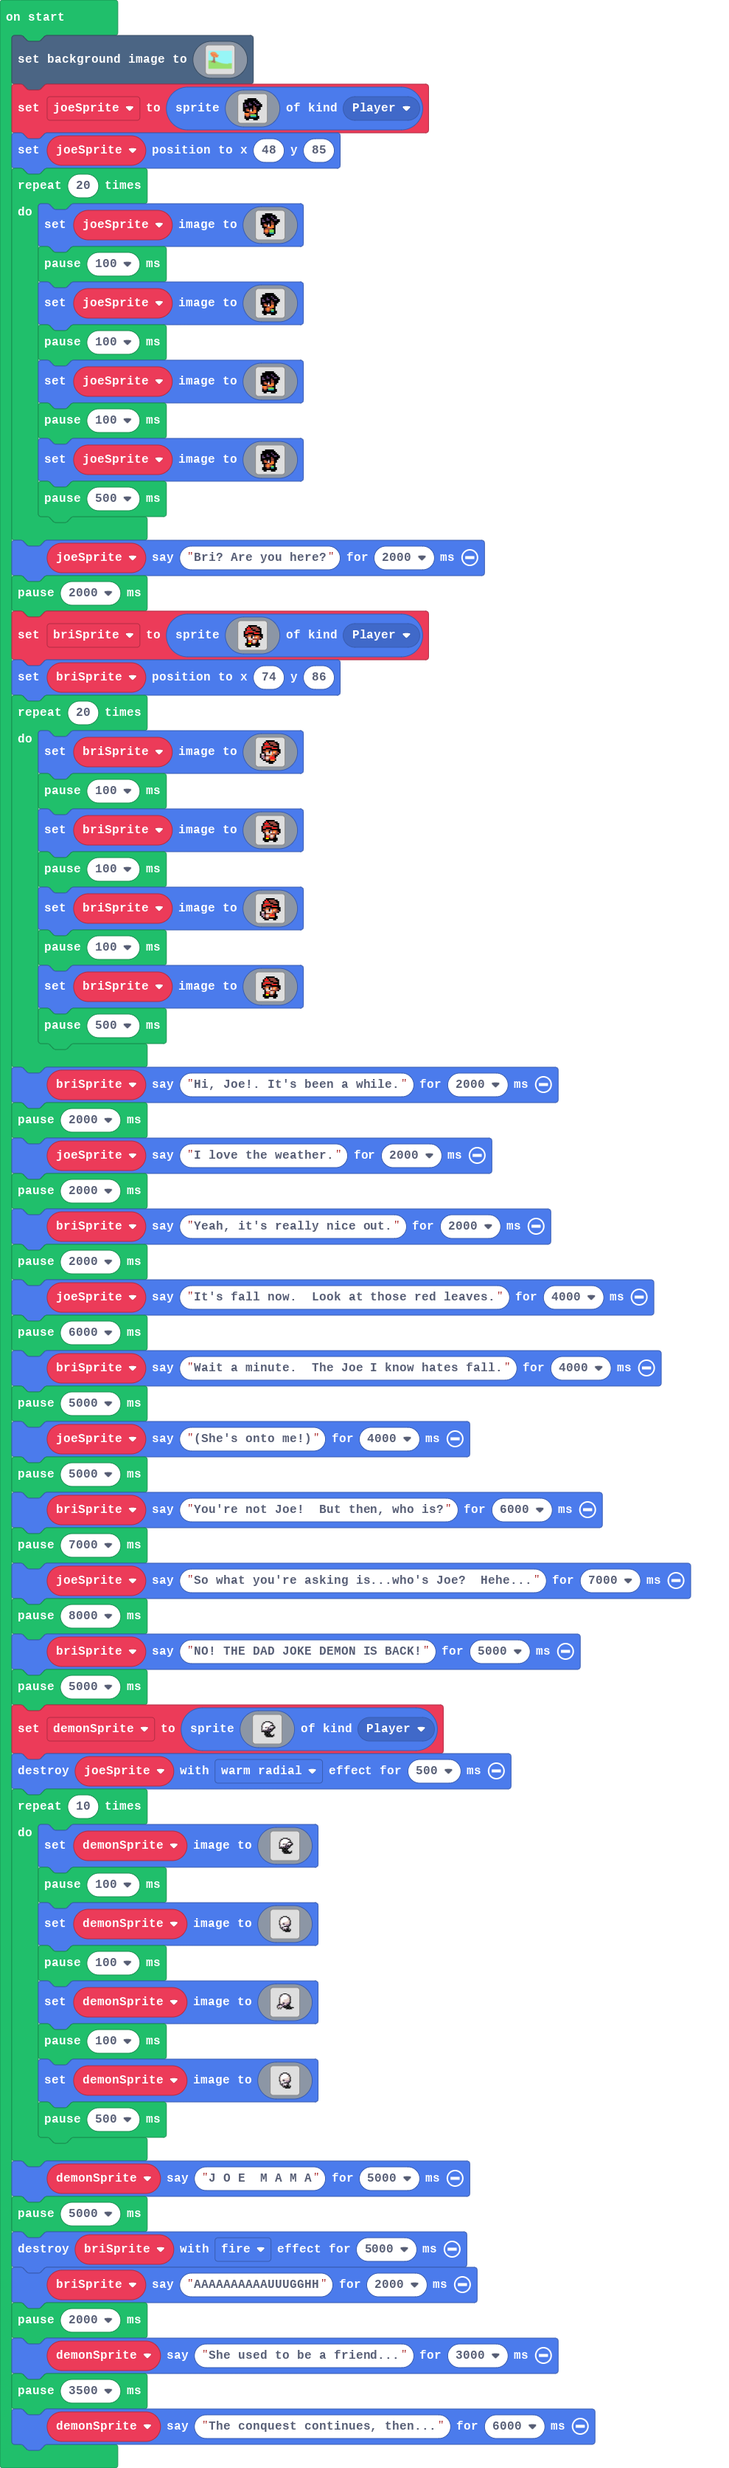
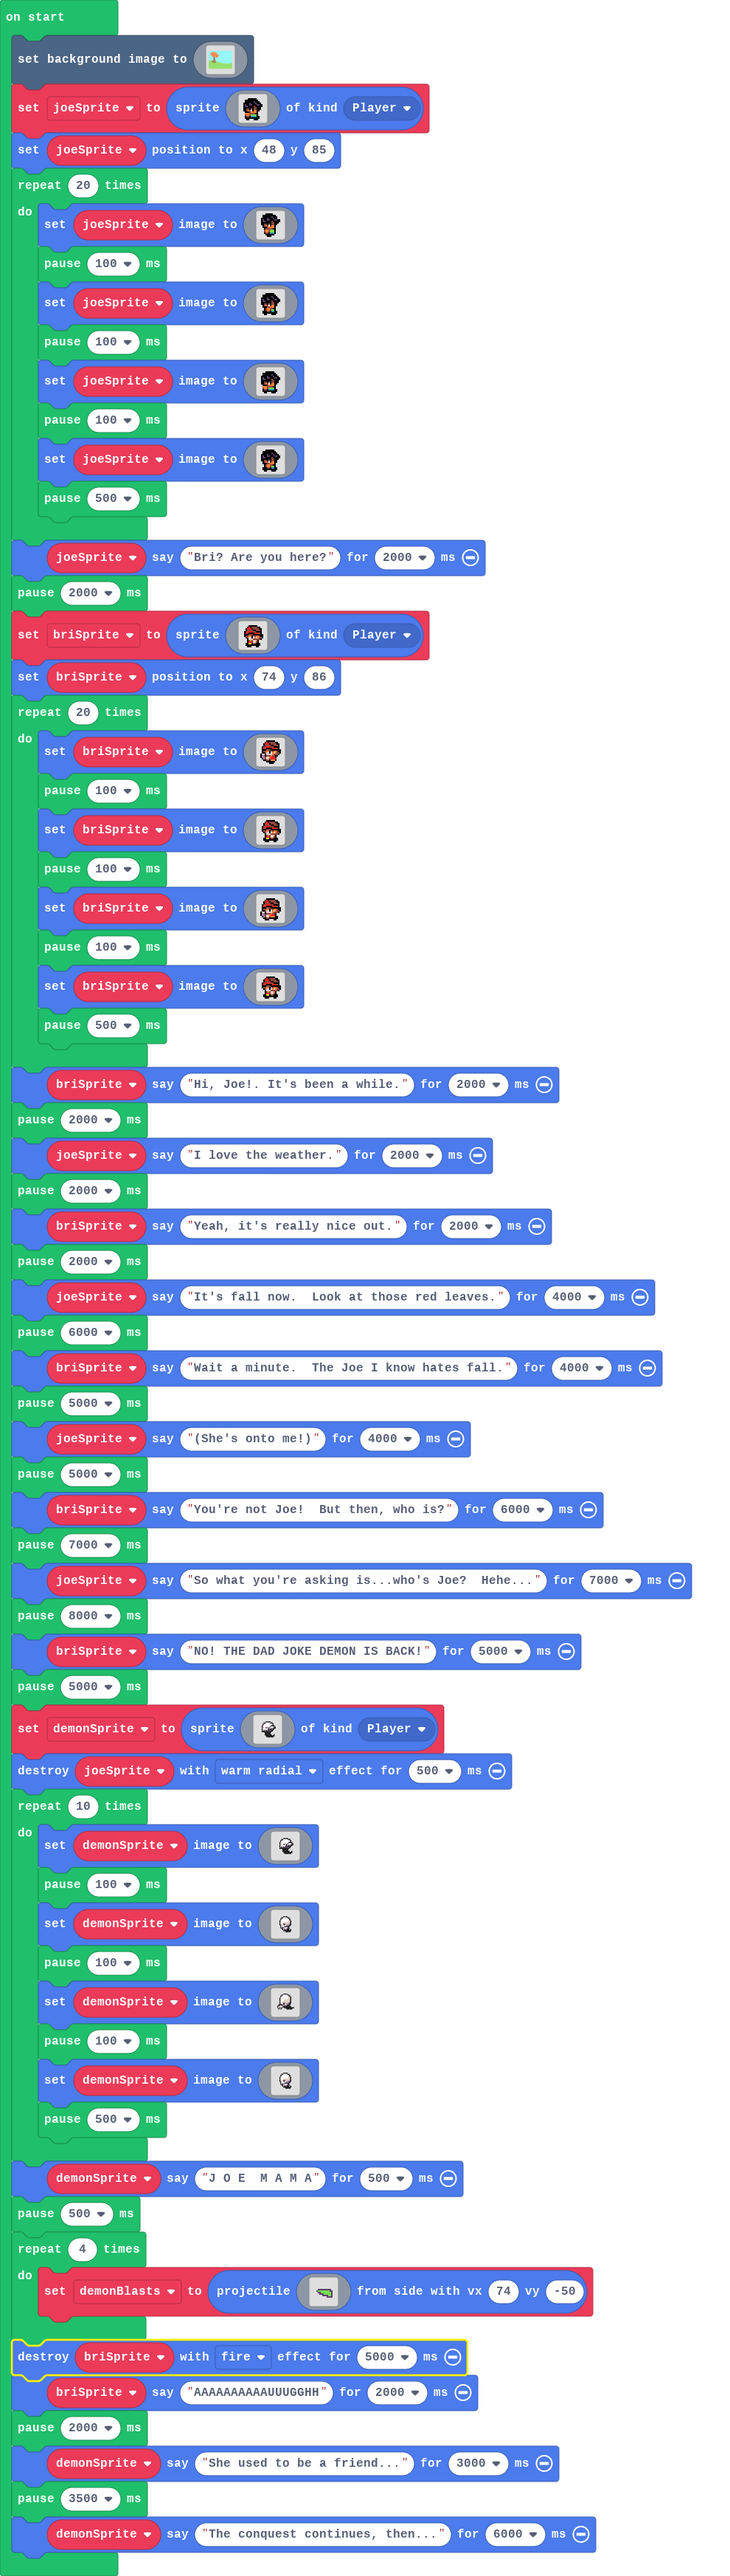
Update main.blocks, main.ts

diff --git a/main.ts b/main.ts
@@ -1,3 +1,4 @@
+let demonBlasts: Sprite = null
 scene.setBackgroundImage(img`
     9999999999999999999999999999999999999999999999999999999999999999999999999999999999999999999999999999999999999999999999999999999999999999999999999999999999999999
     9999999999999999999999999999999999999999999999999999999999999999999999999999999999999999999999999999999999999999999999999999999999999999999999999999999999999999
@@ -471,8 +472,28 @@ for (let index = 0; index < 10; index++) {
         `)
     pause(500)
 }
-demonSprite.say("J O E  M A M A", 5000)
-pause(5000)
+demonSprite.say("J O E  M A M A", 500)
+pause(500)
+for (let index = 0; index < 4; index++) {
+    demonBlasts = sprites.createProjectileFromSide(img`
+        . . . . . . . . . . . . . . . . 
+        . . . . . . . . . . . . . . . . 
+        . . . . . . . . . . . . . . . . 
+        . . . . . . . . . . . . . . . . 
+        . . . . . . . . . . . . . . . . 
+        . . . . . . . . . . . . . . . . 
+        . . . . c c c c c c c c c . . . 
+        . . . c 7 7 7 7 7 7 7 7 c c . . 
+        . . . . c c 7 7 7 7 7 7 7 c . . 
+        . . . . . c c c 7 7 7 7 7 c . . 
+        . . . . . . . c c c c 7 7 c . . 
+        . . . . . . . . . . c c c c . . 
+        . . . . . . . . . . . . . . . . 
+        . . . . . . . . . . . . . . . . 
+        . . . . . . . . . . . . . . . . 
+        . . . . . . . . . . . . . . . . 
+        `, 74, -50)
+}
 briSprite.destroy(effects.fire, 5000)
 briSprite.say("AAAAAAAAAAUUUGGHH", 2000)
 pause(2000)
